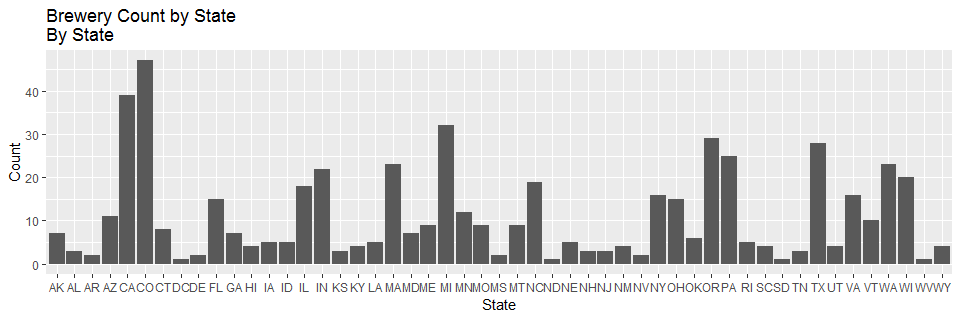
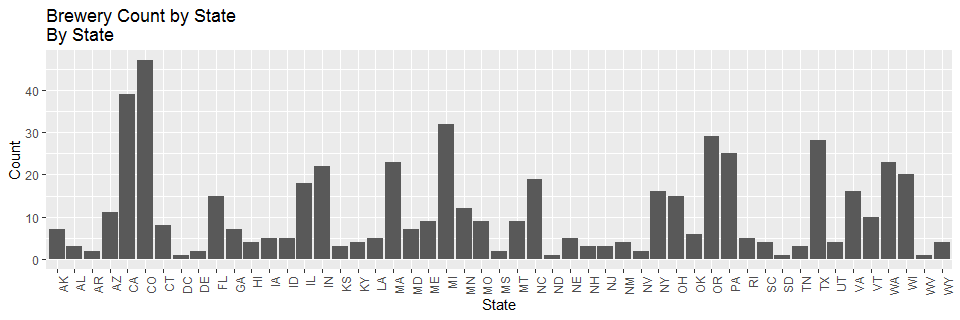
Second Commit

diff --git a/Main_Project.html b/Main_Project.html
@@ -195,8 +195,8 @@ ct_brew[sort(names(ct_brew))]</code></pre>
 ##  4</code></pre>
 <pre class="r"><code>breweries %&gt;% ggplot(aes(x=State)) + geom_bar()+xlab(&quot;State&quot;)+ylab(&quot;Count&quot;) + 
   scale_y_continuous(name=&quot;Count&quot;, labels = scales::comma) +
-  ggtitle(&quot;Brewery Count by State \nBy State&quot;)</code></pre>
[1 lines of base64/hex data omitted]
+  ggtitle(&quot;Brewery Count by State \nBy State&quot;)+theme(axis.text.x = element_text(angle = 90, hjust = 1))</code></pre>
[1 lines of base64/hex data omitted]
 <pre class="r"><code>ct_brew[order(ct_brew)]</code></pre>
 <pre><code>## 
 ## DC ND SD WV AR DE MS NV AL KS NH NJ TN HI KY NM SC UT WY IA ID LA NE RI OK 
@@ -205,8 +205,94 @@ ct_brew[sort(names(ct_brew))]</code></pre>
 ##  7  7  7  8  9  9  9 10 11 12 15 15 16 16 18 19 20 22 23 23 25 28 29 32 39 
 ## CO 
 ## 47</code></pre>
-<pre class="r"><code>barplot(ct_brew[order(ct_brew)])</code></pre>
[1 lines of base64/hex data omitted]
+<pre class="r"><code>breweries[order(breweries[[&quot;State&quot;]]),]</code></pre>
+<pre><code>##      Brew_ID                              Name      City State
+##   1:     103       King Street Brewing Company Anchorage    AK
+##   2:     224      Midnight Sun Brewing Company Anchorage    AK
+##   3:     271           Alaskan Brewing Company    Juneau    AK
+##   4:     454            Denali Brewing Company Talkeetna    AK
+##   5:     459       Kenai River Brewing Company  Soldotna    AK
+##  ---                                                          
+## 554:     157 Greenbrier Valley Brewing Company Lewisburg    WV
+## 555:      80       Black Tooth Brewing Company  Sheridan    WY
+## 556:     192       Snake River Brewing Company   Jackson    WY
+## 557:     458   The Black Tooth Brewing Company  Sheridan    WY
+## 558:     551        Wind River Brewing Company  Pinedale    WY</code></pre>
+<pre class="r"><code>names(ct_brew[order(ct_brew)])</code></pre>
+<pre><code>##  [1] &quot;DC&quot; &quot;ND&quot; &quot;SD&quot; &quot;WV&quot; &quot;AR&quot; &quot;DE&quot; &quot;MS&quot; &quot;NV&quot; &quot;AL&quot; &quot;KS&quot; &quot;NH&quot; &quot;NJ&quot; &quot;TN&quot; &quot;HI&quot;
+## [15] &quot;KY&quot; &quot;NM&quot; &quot;SC&quot; &quot;UT&quot; &quot;WY&quot; &quot;IA&quot; &quot;ID&quot; &quot;LA&quot; &quot;NE&quot; &quot;RI&quot; &quot;OK&quot; &quot;AK&quot; &quot;GA&quot; &quot;MD&quot;
+## [29] &quot;CT&quot; &quot;ME&quot; &quot;MO&quot; &quot;MT&quot; &quot;VT&quot; &quot;AZ&quot; &quot;MN&quot; &quot;FL&quot; &quot;OH&quot; &quot;NY&quot; &quot;VA&quot; &quot;IL&quot; &quot;NC&quot; &quot;WI&quot;
+## [43] &quot;IN&quot; &quot;MA&quot; &quot;WA&quot; &quot;PA&quot; &quot;TX&quot; &quot;OR&quot; &quot;MI&quot; &quot;CA&quot; &quot;CO&quot;</code></pre>
+<pre class="r"><code>breweries %&gt;% ggplot( aes(x=reorder(State,State,
+                     function(x)-length(x)))) + geom_bar()+xlab(&quot;State&quot;)+ylab(&quot;Count&quot;) + 
+  scale_y_continuous(name=&quot;Count&quot;, labels = scales::comma) +
+  ggtitle(&quot;Brewery Count by State \nBy Rank&quot;)+theme(axis.text.x = element_text(angle = 90, hjust = 1))</code></pre>
[1 lines of base64/hex data omitted]
+<p>Here we can see Colorado (CO), California (CA), and Michigan (MI) have the most breweries with 47, 39, and 32 breweries respectively.</p>
+<p>Contrastly, Washington DC (DC), North Dakota (ND), South Dakota (SD), and West Virginia (WV) have the fewest breweries: 1 per state.</p>
+<pre class="r"><code>nrow(breweries)</code></pre>
+<pre><code>## [1] 558</code></pre>
+<p>There are a total of 558 breweries listed in the data set.</p>
+<pre class="r"><code>colnames(breweries)[colnames(breweries)==&quot;Brew_ID&quot;]=&quot;Brewery_id&quot;
+colnames(breweries)[colnames(breweries)==&quot;Name&quot;]=&quot;Brewery_Name&quot;
+colnames(beers)[colnames(beers)==&quot;Name&quot;]=&quot;Beer_Name&quot;
+combined_data=merge(beers,breweries,by=&quot;Brewery_id&quot;)
+nrow(breweries)</code></pre>
+<pre><code>## [1] 558</code></pre>
+<pre class="r"><code>nrow(combined_data)==nrow(beers)</code></pre>
+<pre><code>## [1] TRUE</code></pre>
+<p>First six observations</p>
+<pre class="r"><code>head(combined_data)</code></pre>
+<pre><code>##    Brewery_id     Beer_Name Beer_ID   ABV IBU
+## 1:          1  Get Together    2692 0.045  50
+## 2:          1 Maggie's Leap    2691 0.049  26
+## 3:          1    Wall's End    2690 0.048  19
+## 4:          1       Pumpion    2689 0.060  38
+## 5:          1    Stronghold    2688 0.060  25
+## 6:          1   Parapet ESB    2687 0.056  47
+##                                  Style Ounces      Brewery_Name
+## 1:                        American IPA     16 NorthGate Brewing
+## 2:                  Milk / Sweet Stout     16 NorthGate Brewing
+## 3:                   English Brown Ale     16 NorthGate Brewing
+## 4:                         Pumpkin Ale     16 NorthGate Brewing
+## 5:                     American Porter     16 NorthGate Brewing
+## 6: Extra Special / Strong Bitter (ESB)     16 NorthGate Brewing
+##           City State
+## 1: Minneapolis    MN
+## 2: Minneapolis    MN
+## 3: Minneapolis    MN
+## 4: Minneapolis    MN
+## 5: Minneapolis    MN
+## 6: Minneapolis    MN</code></pre>
+<p>Last six observations</p>
+<pre class="r"><code>tail(combined_data)</code></pre>
+<pre><code>##    Brewery_id                 Beer_Name Beer_ID   ABV IBU
+## 1:        556             Pilsner Ukiah      98 0.055  NA
+## 2:        557  Heinnieweisse Weissebier      52 0.049  NA
+## 3:        557           Snapperhead IPA      51 0.068  NA
+## 4:        557         Moo Thunder Stout      50 0.049  NA
+## 5:        557         Porkslap Pale Ale      49 0.043  NA
+## 6:        558 Urban Wilderness Pale Ale      30 0.049  NA
+##                      Style Ounces                  Brewery_Name
+## 1:         German Pilsener     12         Ukiah Brewing Company
+## 2:              Hefeweizen     12       Butternuts Beer and Ale
+## 3:            American IPA     12       Butternuts Beer and Ale
+## 4:      Milk / Sweet Stout     12       Butternuts Beer and Ale
+## 5: American Pale Ale (APA)     12       Butternuts Beer and Ale
+## 6:        English Pale Ale     12 Sleeping Lady Brewing Company
+##             City State
+## 1:         Ukiah    CA
+## 2: Garrattsville    NY
+## 3: Garrattsville    NY
+## 4: Garrattsville    NY
+## 5: Garrattsville    NY
+## 6:     Anchorage    AK</code></pre>
+<p>Sum of NA’s per column</p>
+<pre class="r"><code>apply(combined_data,2,function(x) sum(is.na(x)))</code></pre>
+<pre><code>##   Brewery_id    Beer_Name      Beer_ID          ABV          IBU 
+##            0            0            0           62         1005 
+##        Style       Ounces Brewery_Name         City        State 
+##            0            0            0            0            0</code></pre>
 </div>
 
 

diff --git a/Main_Project.md b/Main_Project.md
@@ -91,7 +91,7 @@ ct_brew[sort(names(ct_brew))]
 ```r
 breweries %>% ggplot(aes(x=State)) + geom_bar()+xlab("State")+ylab("Count") + 
   scale_y_continuous(name="Count", labels = scales::comma) +
-  ggtitle("Brewery Count by State \nBy State")
+  ggtitle("Brewery Count by State \nBy State")+theme(axis.text.x = element_text(angle = 90, hjust = 1))
 ```
 
 ![](Main_Project_files/figure-html/breweries per state by state-1.png)<!-- -->
@@ -111,7 +111,147 @@ ct_brew[order(ct_brew)]
 ```
 
 ```r
-barplot(ct_brew[order(ct_brew)])
+breweries[order(breweries[["State"]]),]
+```
+
+```
+##      Brew_ID                              Name      City State
+##   1:     103       King Street Brewing Company Anchorage    AK
+##   2:     224      Midnight Sun Brewing Company Anchorage    AK
+##   3:     271           Alaskan Brewing Company    Juneau    AK
+##   4:     454            Denali Brewing Company Talkeetna    AK
+##   5:     459       Kenai River Brewing Company  Soldotna    AK
+##  ---                                                          
+## 554:     157 Greenbrier Valley Brewing Company Lewisburg    WV
+## 555:      80       Black Tooth Brewing Company  Sheridan    WY
+## 556:     192       Snake River Brewing Company   Jackson    WY
+## 557:     458   The Black Tooth Brewing Company  Sheridan    WY
+## 558:     551        Wind River Brewing Company  Pinedale    WY
+```
+
+```r
+names(ct_brew[order(ct_brew)])
+```
+
+```
+##  [1] "DC" "ND" "SD" "WV" "AR" "DE" "MS" "NV" "AL" "KS" "NH" "NJ" "TN" "HI"
+## [15] "KY" "NM" "SC" "UT" "WY" "IA" "ID" "LA" "NE" "RI" "OK" "AK" "GA" "MD"
+## [29] "CT" "ME" "MO" "MT" "VT" "AZ" "MN" "FL" "OH" "NY" "VA" "IL" "NC" "WI"
+## [43] "IN" "MA" "WA" "PA" "TX" "OR" "MI" "CA" "CO"
+```
+
+```r
+breweries %>% ggplot( aes(x=reorder(State,State,
+                     function(x)-length(x)))) + geom_bar()+xlab("State")+ylab("Count") + 
+  scale_y_continuous(name="Count", labels = scales::comma) +
+  ggtitle("Brewery Count by State \nBy Rank")+theme(axis.text.x = element_text(angle = 90, hjust = 1))
 ```
 
 ![](Main_Project_files/figure-html/breweries per state by rank-1.png)<!-- -->
+
+Here we can see Colorado (CO), California (CA), and Michigan (MI) have the most breweries with 47, 39, and 32 breweries respectively.
+
+Contrastly, Washington DC (DC), North Dakota (ND), South Dakota (SD), and West Virginia (WV) have the fewest breweries: 1 per state.
+
+
+```r
+nrow(breweries)
+```
+
+```
+## [1] 558
+```
+
+There are a total of 558 breweries listed in the data set.
+
+
+```r
+colnames(breweries)[colnames(breweries)=="Brew_ID"]="Brewery_id"
+colnames(breweries)[colnames(breweries)=="Name"]="Brewery_Name"
+colnames(beers)[colnames(beers)=="Name"]="Beer_Name"
+combined_data=merge(beers,breweries,by="Brewery_id")
+nrow(breweries)
+```
+
+```
+## [1] 558
+```
+
+```r
+nrow(combined_data)==nrow(beers)
+```
+
+```
+## [1] TRUE
+```
+First six observations
+
+```r
+head(combined_data)
+```
+
+```
+##    Brewery_id     Beer_Name Beer_ID   ABV IBU
+## 1:          1  Get Together    2692 0.045  50
+## 2:          1 Maggie's Leap    2691 0.049  26
+## 3:          1    Wall's End    2690 0.048  19
+## 4:          1       Pumpion    2689 0.060  38
+## 5:          1    Stronghold    2688 0.060  25
+## 6:          1   Parapet ESB    2687 0.056  47
+##                                  Style Ounces      Brewery_Name
+## 1:                        American IPA     16 NorthGate Brewing
+## 2:                  Milk / Sweet Stout     16 NorthGate Brewing
+## 3:                   English Brown Ale     16 NorthGate Brewing
+## 4:                         Pumpkin Ale     16 NorthGate Brewing
+## 5:                     American Porter     16 NorthGate Brewing
+## 6: Extra Special / Strong Bitter (ESB)     16 NorthGate Brewing
+##           City State
+## 1: Minneapolis    MN
+## 2: Minneapolis    MN
+## 3: Minneapolis    MN
+## 4: Minneapolis    MN
+## 5: Minneapolis    MN
+## 6: Minneapolis    MN
+```
+Last six observations
+
+```r
+tail(combined_data)
+```
+
+```
+##    Brewery_id                 Beer_Name Beer_ID   ABV IBU
+## 1:        556             Pilsner Ukiah      98 0.055  NA
+## 2:        557  Heinnieweisse Weissebier      52 0.049  NA
+## 3:        557           Snapperhead IPA      51 0.068  NA
+## 4:        557         Moo Thunder Stout      50 0.049  NA
+## 5:        557         Porkslap Pale Ale      49 0.043  NA
+## 6:        558 Urban Wilderness Pale Ale      30 0.049  NA
+##                      Style Ounces                  Brewery_Name
+## 1:         German Pilsener     12         Ukiah Brewing Company
+## 2:              Hefeweizen     12       Butternuts Beer and Ale
+## 3:            American IPA     12       Butternuts Beer and Ale
+## 4:      Milk / Sweet Stout     12       Butternuts Beer and Ale
+## 5: American Pale Ale (APA)     12       Butternuts Beer and Ale
+## 6:        English Pale Ale     12 Sleeping Lady Brewing Company
+##             City State
+## 1:         Ukiah    CA
+## 2: Garrattsville    NY
+## 3: Garrattsville    NY
+## 4: Garrattsville    NY
+## 5: Garrattsville    NY
+## 6:     Anchorage    AK
+```
+Sum of NA's per column
+
+```r
+apply(combined_data,2,function(x) sum(is.na(x)))
+```
+
+```
+##   Brewery_id    Beer_Name      Beer_ID          ABV          IBU 
+##            0            0            0           62         1005 
+##        Style       Ounces Brewery_Name         City        State 
+##            0            0            0            0            0
+```
+
